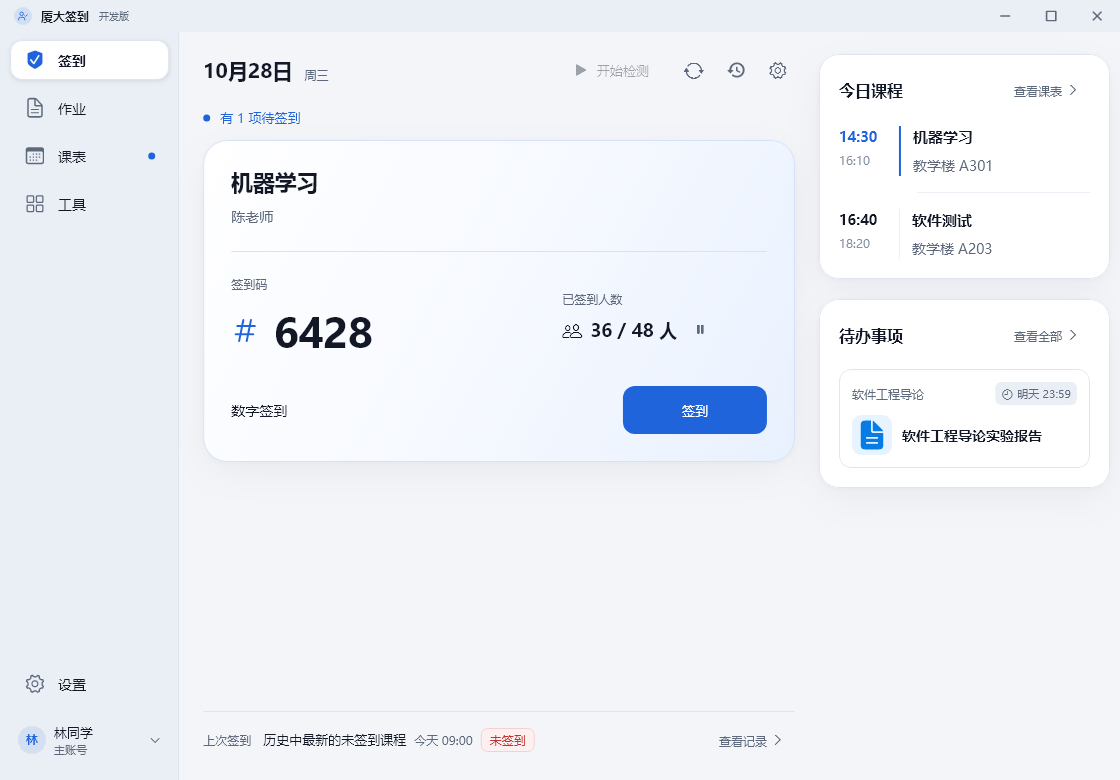
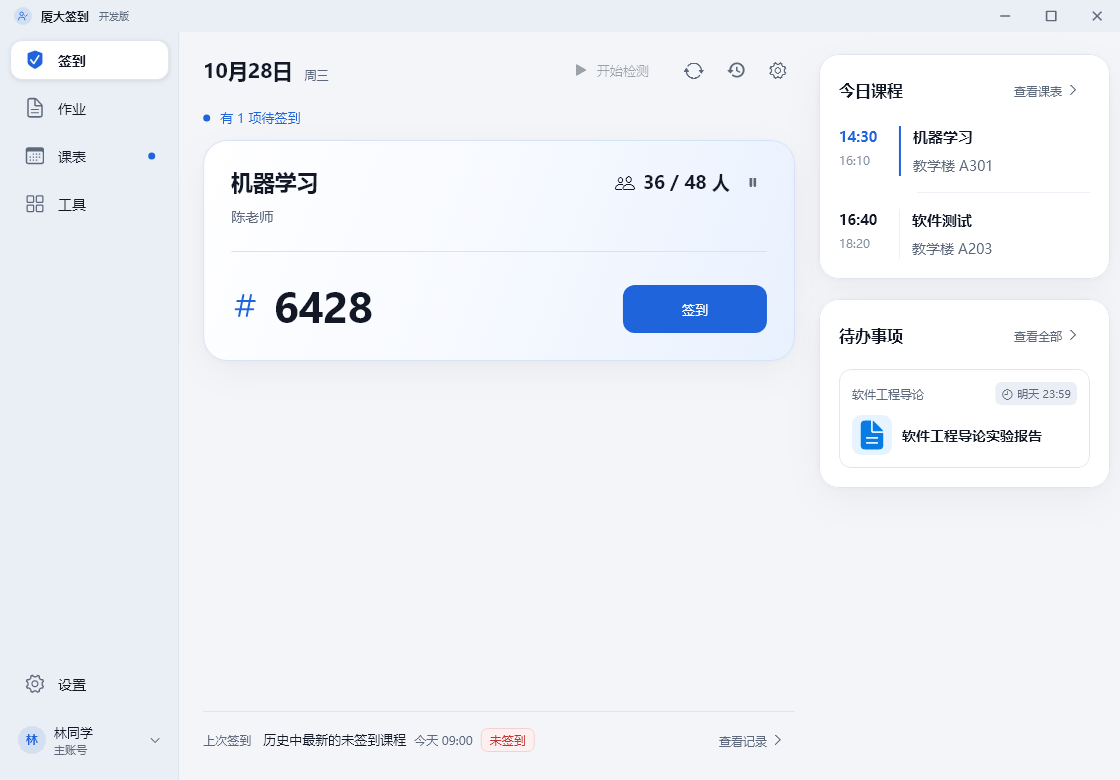
fix(ui): compact desktop rollcall cards across signing methods

diff --git a/lib/features/rollcall/rollcall_list_page.dart b/lib/features/rollcall/rollcall_list_page.dart
@@ -422,7 +422,8 @@ class _RollcallTileState extends ConsumerState<RollcallTaskCard> {
                     ? point.labelSnapshot
                     : '已保存的签到位置',
                 style: _taskMethodTextStyle(p).copyWith(
-                  color: _radarLocationRejected &&
+                  color:
+                      _radarLocationRejected &&
                           !_answered &&
                           !widget.item.isExpired
                       ? p.danger
@@ -1086,14 +1087,28 @@ class _RollcallTileState extends ConsumerState<RollcallTaskCard> {
       child: Column(
         crossAxisAlignment: CrossAxisAlignment.stretch,
         children: [
-          AppTruncatedText(title, style: _titleStyle(p)),
-          if (item.createdByName.trim().isNotEmpty) ...[
-            const SizedBox(height: 10),
-            Text(
-              item.createdByName.trim(),
-              style: AppTypography.body.copyWith(color: p.muted),
-            ),
-          ],
+          Row(
+            crossAxisAlignment: CrossAxisAlignment.start,
+            children: [
+              Expanded(
+                child: Column(
+                  crossAxisAlignment: CrossAxisAlignment.start,
+                  children: [
+                    AppTruncatedText(title, style: _titleStyle(p)),
+                    if (item.createdByName.trim().isNotEmpty) ...[
+                      const SizedBox(height: 10),
+                      AppTruncatedText(
+                        item.createdByName.trim(),
+                        style: AppTypography.body.copyWith(color: p.muted),
+                      ),
+                    ],
+                  ],
+                ),
+              ),
+              const SizedBox(width: 16),
+              _attendance(item, compact: true),
+            ],
+          ),
           const SizedBox(height: 24),
           Divider(height: 1, color: active ? p.heroRim : p.divider),
           const SizedBox(height: 24),
@@ -1128,64 +1143,20 @@ class _RollcallTileState extends ConsumerState<RollcallTaskCard> {
       builder: (context, constraints) {
         final scale = MediaQuery.textScalerOf(context).scale(1);
         final stacked = constraints.maxWidth < 440 * scale;
-        final information = Flex(
+        return Flex(
           direction: stacked ? Axis.vertical : Axis.horizontal,
           mainAxisSize: MainAxisSize.min,
           crossAxisAlignment: stacked
               ? CrossAxisAlignment.stretch
-              : CrossAxisAlignment.center,
+              : CrossAxisAlignment.end,
           children: [
-            Flexible(
-              flex: 3,
-              child: Column(
-                crossAxisAlignment: CrossAxisAlignment.start,
-                children: [
-                  Text(
-                    item.isNumber
-                        ? '签到码'
-                        : item.isRadar
-                        ? '签到位置'
-                        : '签到方式',
-                    style: AppTypography.caption.copyWith(color: p.muted),
-                  ),
-                  const SizedBox(height: 8),
-                  method,
-                ],
-              ),
-            ),
-            SizedBox(width: stacked ? 0 : 24, height: stacked ? 20 : 0),
-            Flexible(
-              flex: 2,
-              child: Column(
-                crossAxisAlignment: CrossAxisAlignment.start,
-                children: [
-                  Text(
-                    '已签到人数',
-                    style: AppTypography.caption.copyWith(color: p.muted),
-                  ),
-                  const SizedBox(height: 8),
-                  _attendance(item, compact: true),
-                ],
-              ),
-            ),
-          ],
-        );
-        return Column(
-          crossAxisAlignment: CrossAxisAlignment.stretch,
-          children: [
-            information,
-            const SizedBox(height: 28),
-            Row(
-              children: [
-                Expanded(
-                  child: Text(
-                    '${item.typeLabel}签到',
-                    style: AppTypography.body.copyWith(color: p.ink),
-                  ),
-                ),
-                const SizedBox(width: 16),
-                action,
-              ],
+            Flexible(child: method),
+            SizedBox(width: stacked ? 0 : 24, height: stacked ? 16 : 0),
+            Align(
+              alignment: Alignment.centerRight,
+              widthFactor: 1,
+              heightFactor: 1,
+              child: action,
             ),
           ],
         );

diff --git a/test/widget/rollcall_preview_page_test.dart b/test/widget/rollcall_preview_page_test.dart
@@ -155,8 +155,8 @@ void main() {
     expect(find.byType(MobileRollcallHome), findsNothing);
     expect(find.byType(AppMobileNav), findsNothing);
     expect(find.byType(RollcallTaskCard), findsNWidgets(3));
-    expect(find.text('数字签到'), findsOneWidget);
-    expect(find.text('雷达签到'), findsWidgets);
+    expect(find.text('数字签到'), findsNothing);
+    expect(find.text('雷达签到'), findsNothing);
     expect(find.text('预览老师'), findsNWidgets(3));
     expect(find.byIcon(AppIcons.number), findsWidgets);
     expect(find.byIcon(AppIcons.location), findsWidgets);
@@ -211,6 +211,55 @@ void main() {
     await _capture(tester, capture, 'desktop-completed');
     expect(tester.takeException(), isNull);
   });
+
+  for (final dark in [false, true]) {
+    for (final scale in [1.0, 1.3]) {
+      testWidgets('desktop task corners stay compact dark=$dark scale=$scale', (
+        tester,
+      ) async {
+        final capture = await _mount(
+          tester,
+          desktop: true,
+          width: 1104,
+          dark: dark,
+          scale: scale,
+        );
+        for (final element in find.byType(RollcallTaskCard).evaluate()) {
+          final card = find.byWidget(element.widget);
+          final cardRect = tester.getRect(card);
+          final count = find.descendant(
+            of: card,
+            matching: find.byType(AttendanceCountRow),
+          );
+          final teacher = find.descendant(
+            of: card,
+            matching: find.text('预览老师'),
+          );
+          final button = find.descendant(
+            of: card,
+            matching: find.byType(FilledButton),
+          );
+          final countRect = tester.getRect(count);
+          final teacherRect = tester.getRect(teacher);
+          final buttonRect = tester.getRect(button);
+          expect(countRect.center.dy, lessThan(teacherRect.top));
+          expect(countRect.right, closeTo(cardRect.right - 28, 0.5));
+          expect(buttonRect.right, closeTo(cardRect.right - 28, 0.5));
+          expect(buttonRect.bottom, closeTo(cardRect.bottom - 28, 0.5));
+          expect(cardRect.height, lessThan(300 * scale));
+        }
+        expect(find.text('数字签到'), findsNothing);
+        expect(find.text('雷达签到'), findsNothing);
+        expect(find.text('二维码签到'), findsNothing);
+        for (final caption in ['签到码', '签到位置', '签到方式']) {
+          expect(find.text(caption), findsNothing);
+        }
+        expect(tester.takeException(), isNull);
+        await _capture(tester, capture, 'desktop-compact-$dark-$scale');
+        await tester.pumpWidget(const SizedBox.shrink());
+      });
+    }
+  }
 
   testWidgets('desktop missing number uses the shared manual entry dialog', (
     tester,

diff --git a/CHANGELOG.md b/CHANGELOG.md
@@ -17,6 +17,7 @@
 
 ### Changed
 
+- Windows 数字、雷达与二维码签到卡片将人数移至课程标题右侧，移除底部类型名称和重复小标题，操作按钮随内容上移并缩短卡片。
 - 更新手机四入口导航、桌面侧栏和浅深色页面，完善签到、作业、课表、工具、设置及相关弹层的控件状态与键盘反馈。
 - Windows 发现正式更新后可后台下载并校验，安装仍需用户确认；关于页共用下载进度和安装包。
 - 重写 README 的功能、安装和更新说明，补充当前页面的手机/桌面及浅深色预览，并提供可复现的截图生成脚本。
